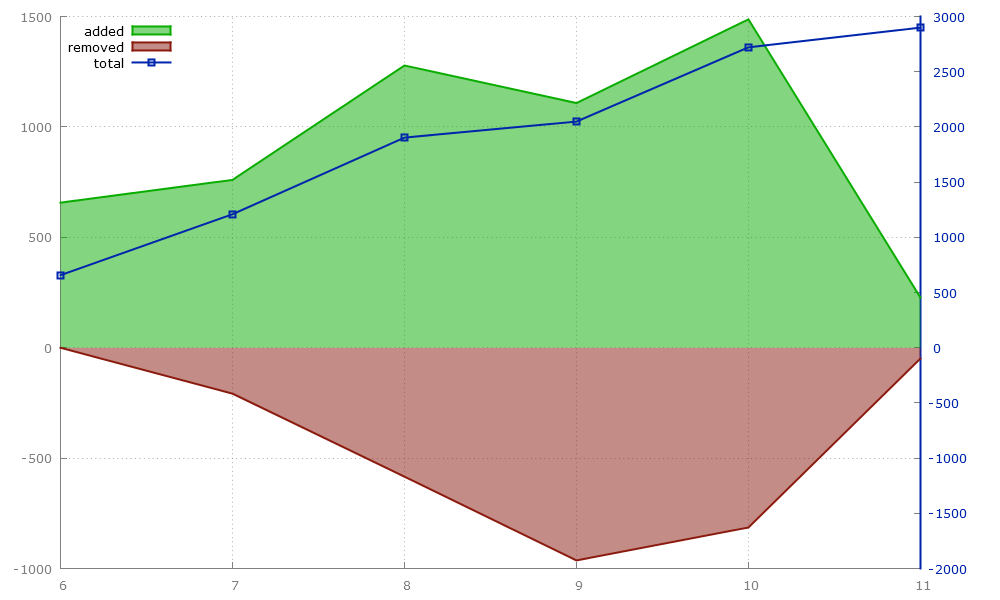
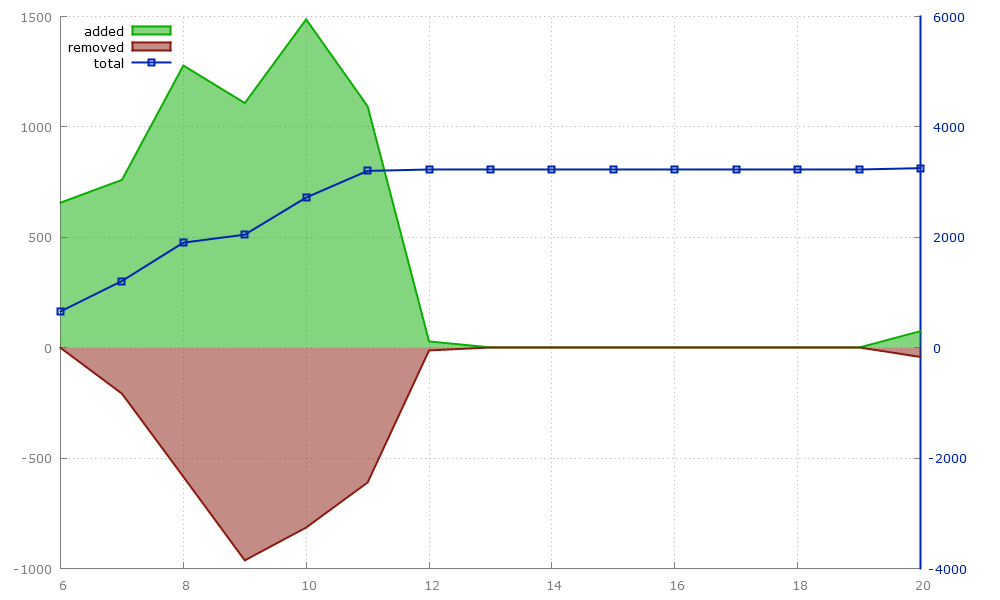
Modified the python graph script to include months with no activity

diff --git a/graph.py b/graph.py
@@ -54,6 +54,11 @@ for line in out_text:
 		else:
 			total += added + removed;
 			week_text.append( str(week) + '\t' + str(added) + '\t' + str(removed) + '\t' + str(total) + '\n' )
+			if w - week > 1:
+				print( "lost months\n" )
+				for t in range( week + 1, w ):
+					week_text.append( str(t) + "\t0\t0\t" + str(total) + "\n" )
+					print( "adding lost month " + str(t) + "\n" )
 			week = w;
 			added = int(i[3])
 			removed = -int(i[4])
